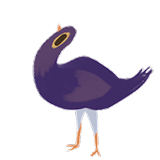
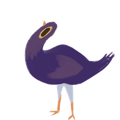
New algorithm & new original pic

diff --git a/.vscode/.ropeproject/config.py b/.vscode/.ropeproject/config.py
@@ -1,0 +1,100 @@
+# The default ``config.py``
+# flake8: noqa
+
+
+def set_prefs(prefs):
+    """This function is called before opening the project"""
+
+    # Specify which files and folders to ignore in the project.
+    # Changes to ignored resources are not added to the history and
+    # VCSs.  Also they are not returned in `Project.get_files()`.
+    # Note that ``?`` and ``*`` match all characters but slashes.
+    # '*.pyc': matches 'test.pyc' and 'pkg/test.pyc'
+    # 'mod*.pyc': matches 'test/mod1.pyc' but not 'mod/1.pyc'
+    # '.svn': matches 'pkg/.svn' and all of its children
+    # 'build/*.o': matches 'build/lib.o' but not 'build/sub/lib.o'
+    # 'build//*.o': matches 'build/lib.o' and 'build/sub/lib.o'
+    prefs['ignored_resources'] = ['*.pyc', '*~', '.ropeproject',
+                                  '.hg', '.svn', '_svn', '.git', '.tox']
+
+    # Specifies which files should be considered python files.  It is
+    # useful when you have scripts inside your project.  Only files
+    # ending with ``.py`` are considered to be python files by
+    # default.
+    #prefs['python_files'] = ['*.py']
+
+    # Custom source folders:  By default rope searches the project
+    # for finding source folders (folders that should be searched
+    # for finding modules).  You can add paths to that list.  Note
+    # that rope guesses project source folders correctly most of the
+    # time; use this if you have any problems.
+    # The folders should be relative to project root and use '/' for
+    # separating folders regardless of the platform rope is running on.
+    # 'src/my_source_folder' for instance.
+    #prefs.add('source_folders', 'src')
+
+    # You can extend python path for looking up modules
+    #prefs.add('python_path', '~/python/')
+
+    # Should rope save object information or not.
+    prefs['save_objectdb'] = True
+    prefs['compress_objectdb'] = False
+
+    # If `True`, rope analyzes each module when it is being saved.
+    prefs['automatic_soa'] = True
+    # The depth of calls to follow in static object analysis
+    prefs['soa_followed_calls'] = 0
+
+    # If `False` when running modules or unit tests "dynamic object
+    # analysis" is turned off.  This makes them much faster.
+    prefs['perform_doa'] = True
+
+    # Rope can check the validity of its object DB when running.
+    prefs['validate_objectdb'] = True
+
+    # How many undos to hold?
+    prefs['max_history_items'] = 32
+
+    # Shows whether to save history across sessions.
+    prefs['save_history'] = True
+    prefs['compress_history'] = False
+
+    # Set the number spaces used for indenting.  According to
+    # :PEP:`8`, it is best to use 4 spaces.  Since most of rope's
+    # unit-tests use 4 spaces it is more reliable, too.
+    prefs['indent_size'] = 4
+
+    # Builtin and c-extension modules that are allowed to be imported
+    # and inspected by rope.
+    prefs['extension_modules'] = []
+
+    # Add all standard c-extensions to extension_modules list.
+    prefs['import_dynload_stdmods'] = True
+
+    # If `True` modules with syntax errors are considered to be empty.
+    # The default value is `False`; When `False` syntax errors raise
+    # `rope.base.exceptions.ModuleSyntaxError` exception.
+    prefs['ignore_syntax_errors'] = False
+
+    # If `True`, rope ignores unresolvable imports.  Otherwise, they
+    # appear in the importing namespace.
+    prefs['ignore_bad_imports'] = False
+
+    # If `True`, rope will insert new module imports as
+    # `from <package> import <module>` by default.
+    prefs['prefer_module_from_imports'] = False
+
+    # If `True`, rope will transform a comma list of imports into
+    # multiple separate import statements when organizing
+    # imports.
+    prefs['split_imports'] = False
+
+    # If `True`, rope will sort imports alphabetically by module name
+    # instead of alphabetically by import statement, with from imports
+    # after normal imports.
+    prefs['sort_imports_alphabetically'] = False
+
+
+def project_opened(project):
+    """This function is called after opening the project"""
+    # Do whatever you like here!

diff --git a/extract.py b/extract.py
@@ -4,6 +4,7 @@ from PIL import Image
 import os
 
 img = Image.open("trash_doves.png")
+img.thumbnail((576, 576))
 
 offset = 3
 cols = [4,4,4,3]
@@ -16,7 +17,7 @@ if not os.path.exists(outputDir):
 for index in range(len(cols)):
     for _ in range(cols[index]):
         count += 1
-        cropped = img.crop((_ * 160, index * 160 + offset, (_  + 1) * 160, (index + 1) * 160 + offset))
+        cropped = img.crop((12 + 144 * _, 12 + 144 * index, 144 * (_ + 1) - 12, 144 * (index + 1) - 12))
         (width, height) = cropped.size
         new = Image.new("RGBA", (width, height), (0, 0, 0, 0))
         new.paste(cropped)
